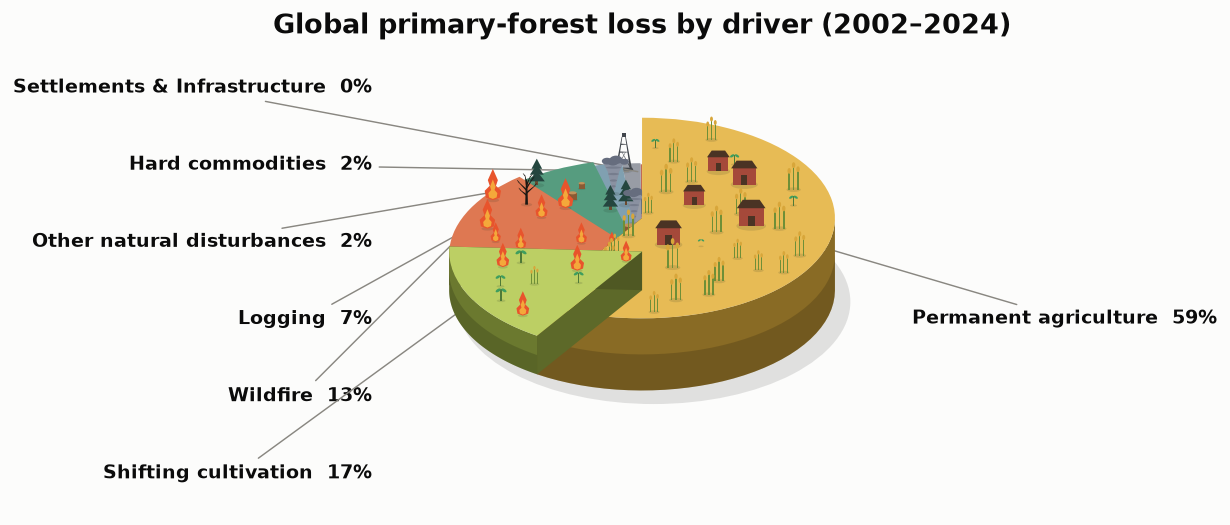
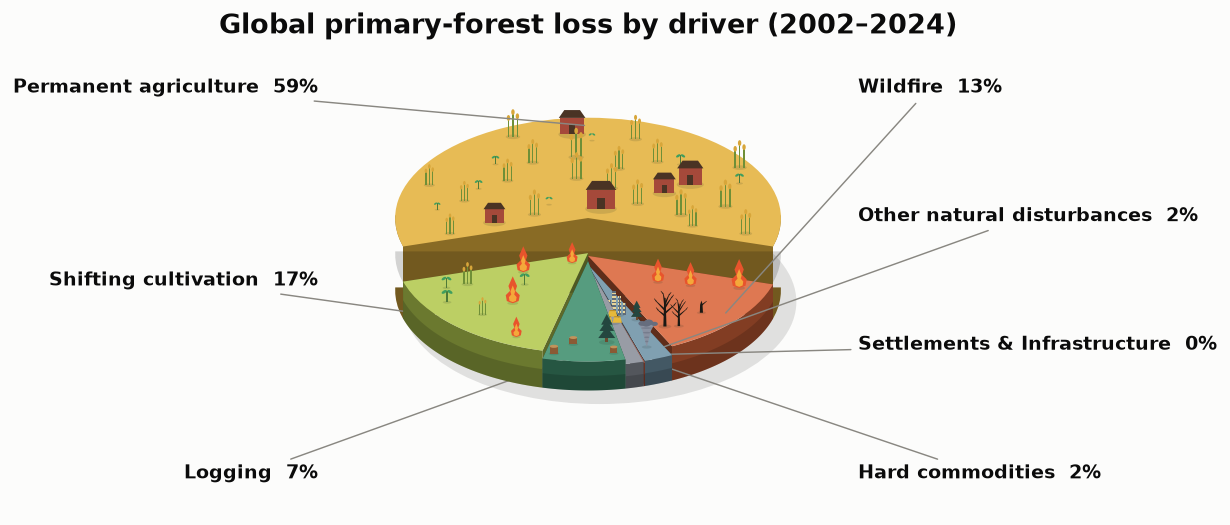
Arrange 3-D pie as a stepped mountain (tallest at back)
Reorder slices so the largest (permanent agriculture) sits centered at the
back and heights step down toward the front on both sides, and rotate it
there. This removes the incorrect overlap (a taller slice never sits in
front of a shorter one) and shows every slice.

diff --git a/src/forest_viz/maps.py b/src/forest_viz/maps.py
@@ -485,14 +485,28 @@ def plot_driver_pie(drivers, country=None, year_range=None, ax=None, dark=False,
     def rim(a):  # base-plane rim point at angle a (degrees)
         return np.array([R * np.cos(np.radians(a)), R * np.sin(np.radians(a)) * tilt])
 
-    # Slice angles + a distinct extruded height per slice (taller = bigger share).
-    spans, start = [], 90.0
+    # Arrange slices as a "mountain": largest centered at the back, stepping
+    # down toward the front on both sides. This guarantees no taller slice
+    # sits in front of a shorter one, so the 3-D form never overlaps wrongly.
+    by_size = sorted(order, key=lambda d: totals[d], reverse=True)
+    arr = []
+    for i, d in enumerate(by_size):
+        (arr.append if i % 2 == 0 else (lambda v: arr.insert(0, v)))(d)
+
     fmax = max((totals[d] / total for d in order), default=1.0)
-    for d in order:
+    widths = {d: totals[d] / total * 360.0 for d in arr}
+    pos, cur = {}, 0.0
+    for d in arr:
+        pos[d] = (cur, cur - widths[d])  # clockwise
+        cur -= widths[d]
+    bc = sum(pos[by_size[0]]) / 2.0
+    delta = 90.0 - bc  # rotate so the biggest slice is centred at the back (top)
+
+    spans = []
+    for d in arr:
         frac = totals[d] / total
-        h = depth * (0.6 + 1.1 * frac / fmax)  # height varies by share
-        spans.append((d, frac, start, start - frac * 360.0, h))
-        start -= frac * 360.0
+        h = depth * (0.55 + 1.15 * frac / fmax)  # height varies by share
+        spans.append((d, frac, pos[d][0] + delta, pos[d][1] + delta, h))
 
     # Soft ground shadow under the disc.
     ax.add_patch(Ellipse((0.06, -0.06), 2 * R * 1.02, 2 * R * tilt * 1.02, facecolor="#1c1c1a",
